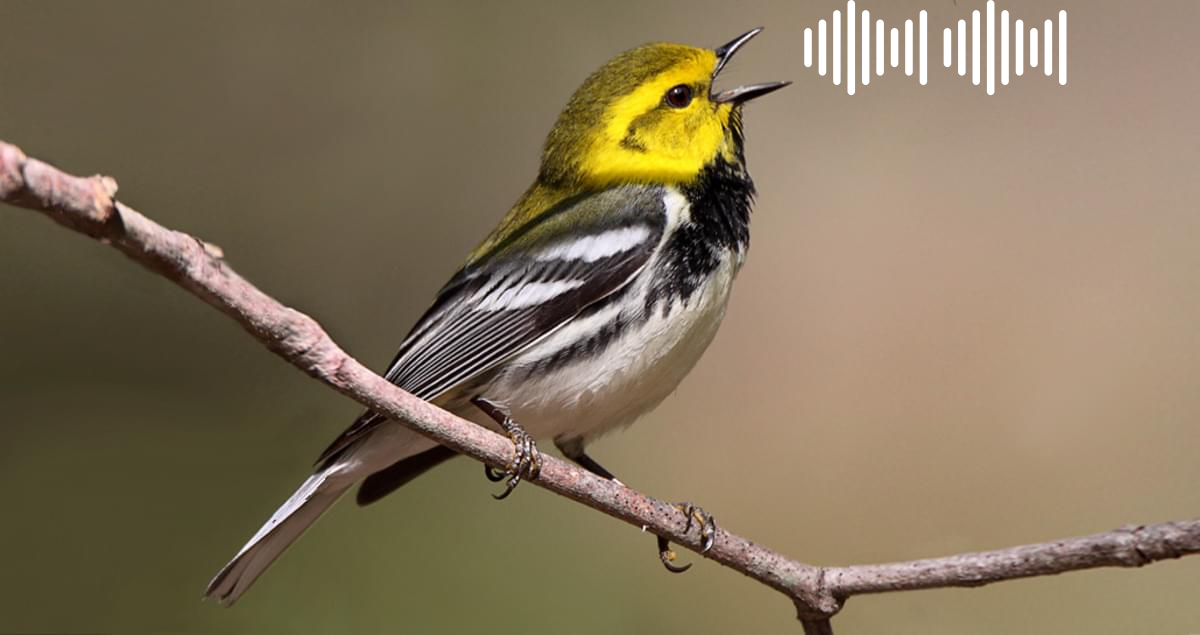
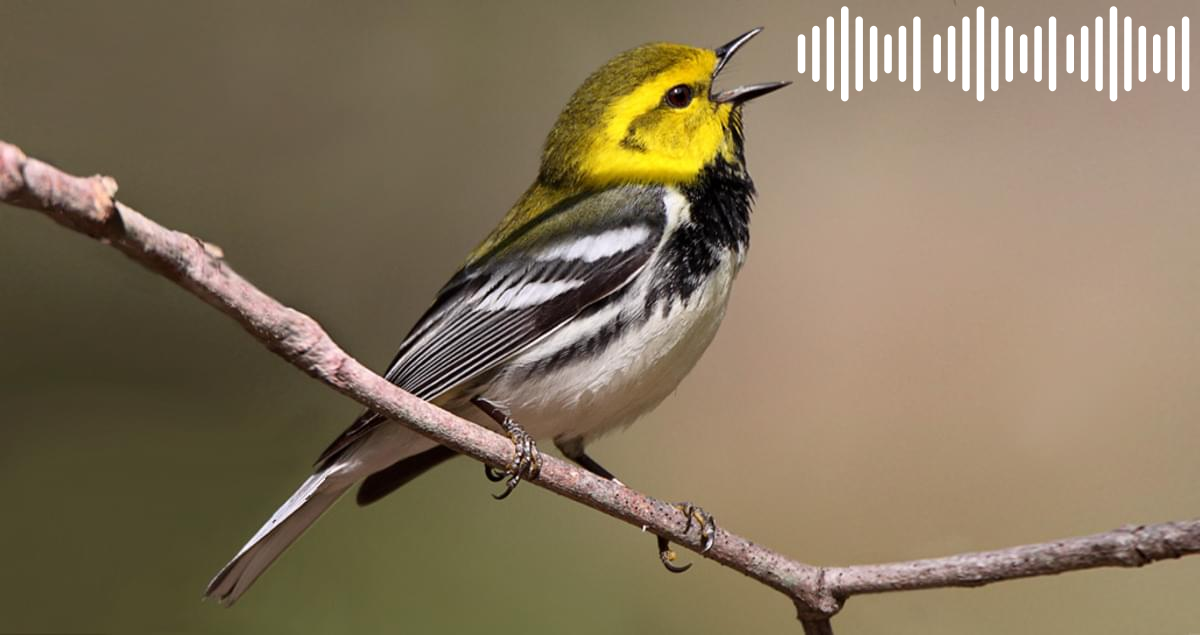
Update from https://github.com/jmhatch/jmhatch.github.io-code/commit/dde5b6932b2c7f9a3cad8d62f44806130fe62b2d

Changed region(s): [[0.6475, 0.0, 1.0, 0.1496]]

diff --git a/blog/index.html b/blog/index.html
@@ -210,7 +210,7 @@ ul.task-list li input[type="checkbox"] {
 <main class="content quarto-banner-title-block column-page-left" id="quarto-document-content"><section id="section" class="level2"><h2 class="anchored" data-anchor-id="section">2024</h2>
 <div id="listing-posts_2024" class="quarto-listing quarto-listing-container-custom">
 <div class="list blog">
-    <div class="blog-entry" data-index="0" data-categories="audiomoth" data-listing-date-sort="1734307200000" data-listing-file-modified-sort="1746109928438" data-listing-date-modified-sort="NaN" data-listing-reading-time-sort="3">
+    <div class="blog-entry" data-index="0" data-categories="audiomoth" data-listing-date-sort="1734307200000" data-listing-file-modified-sort="1746111069308" data-listing-date-modified-sort="NaN" data-listing-reading-time-sort="3">
         <div class="metadata">          
             <p class="date listing-date">Dec 16</p>
         </div>
@@ -235,7 +235,7 @@ No matching items
 </section><section id="section-1" class="level2"><h2 class="anchored" data-anchor-id="section-1">2025</h2>
 <div id="listing-posts_2025" class="quarto-listing quarto-listing-container-custom">
 <div class="list blog">
-    <div class="blog-entry" data-index="0" data-categories="gis,data portal,ArcGIS Online" data-listing-date-sort="1745366400000" data-listing-file-modified-sort="1746109928441" data-listing-date-modified-sort="NaN" data-listing-reading-time-sort="1">
+    <div class="blog-entry" data-index="0" data-categories="gis,data portal,ArcGIS Online" data-listing-date-sort="1745366400000" data-listing-file-modified-sort="1746111069313" data-listing-date-modified-sort="NaN" data-listing-reading-time-sort="1">
         <div class="metadata">          
             <p class="date listing-date">Apr 23</p>
         </div>

diff --git a/html/index_styles.css b/html/index_styles.css
@@ -21,17 +21,18 @@ body{
   overscroll-behavior: none;
 }
 
-/* if using bottom-img, uncomment this */
+/* if using bottom-img, uncomment this 
 #quarto-content {
   background: linear-gradient(-180deg, #000000 0%, #021d44 50%, #205493 100%);
 }  
+*/
 
 .gradient_bg {
   overflow: visible;
   width: 100%;
   margin-top: 0;
-  /* background: linear-gradient(180deg, rgba(0,0,0,1) 0%, #205493 100%); if using bottom-img, comment this */
-  /*background: linear-gradient(90deg, rgba(0, 97, 242, 1) 0%, rgba(105, 0, 199, 1) 100%);*/
+  background: linear-gradient(180deg, rgba(0,0,0,1) 0%, #205493 100%); /* if using bottom-img, comment this */
+  /* background: linear-gradient(90deg, rgba(0, 97, 242, 1) 0%, rgba(105, 0, 199, 1) 100%); */
 }
 
 h1 {
